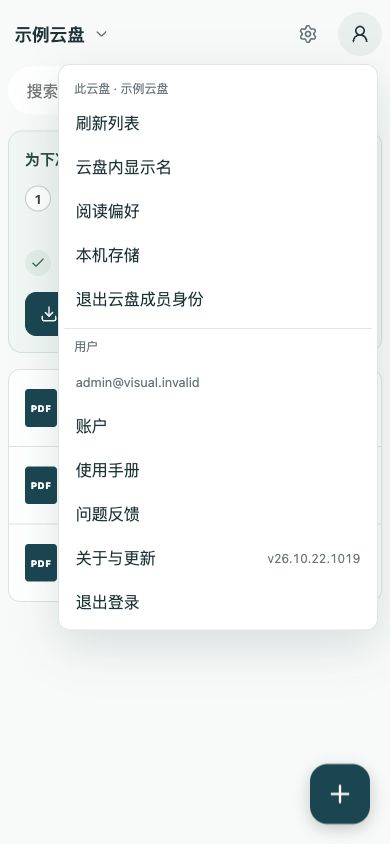
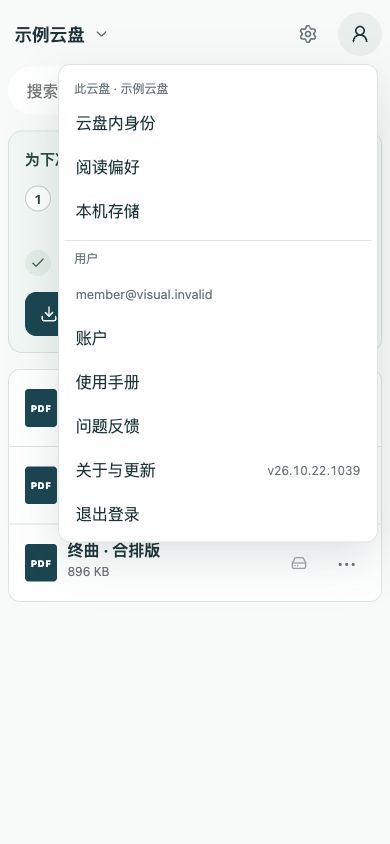
合并云盘内身份入口并移除菜单刷新

diff --git a/src/client/routes/leave-drive-page.tsx b/src/client/routes/leave-drive-page.tsx
@@ -5,27 +5,36 @@ import { SettingsFeedback } from "../settings/settings-feedback";
 import { useState } from "react";
 import { Button } from "react-aria-components";
 import { Link, useNavigate, useParams } from "react-router-dom";
-import { authClient } from "../auth/auth-client";
+import { useApplicationIdentity } from "../auth/application-identity";
+import { DriveSettingsDialog } from "../score-library/drive-settings-dialog";
 import { TaskHeader } from "../components/task-header";
 import { ConfirmDialog, type Confirmation } from "../settings/confirm-dialog";
 import { useUserLifecycle } from "../settings/use-user-lifecycle";
 
 export default function LeaveDrivePage() {
   const { choirId = "" } = useParams();
-  const session = authClient.useSession();
-  return <LeaveDrive key={`${session.data?.user.id ?? "guest"}:${choirId}`} choirId={choirId} />;
+  const identity = useApplicationIdentity();
+  const [knownSession, setKnownSession] = useState(identity.authenticatedSessionId);
+  if (identity.authenticatedSessionId && knownSession !== identity.authenticatedSessionId) setKnownSession(identity.authenticatedSessionId);
+  const presentationSession = identity.onlineState === "signed-out" ? null : identity.authenticatedSessionId ?? knownSession;
+  return <LeaveDrive key={`${identity.localUserId ?? "guest"}:${choirId}:${presentationSession}`} choirId={choirId} userId={identity.localUserId} />;
 }
-function LeaveDrive({ choirId }: { choirId: string }) {
+function LeaveDrive({ choirId, userId }: { choirId: string; userId: string | null }) {
   const navigate = useNavigate();
-  const userId = authClient.useSession().data?.user.id;
   const { state, message, busy, loading, blocked, reload, perform } = useUserLifecycle();
   const member = state?.memberships.find(member => member.choirId === choirId);
+  const [editingName, setEditingName] = useState(false);
   const [confirmation, setConfirmation] = useState<Confirmation | null>(null);
   return <div className="app-page">
-    <TaskHeader title={"退出云盘成员身份"} backTo={`/choirs/${choirId}`} />
-    <main className="page-shell settings-page settings-ux lifecycle-page">
-      <header className="settings-heading"><p>{member?.name}</p></header>
-      {state && <section className="membership-exit"><h2>成员身份</h2>
+    <TaskHeader title="云盘内身份" backTo={`/choirs/${choirId}`} />
+    <main className="page-shell settings-page settings-ux lifecycle-page drive-identity-page">
+      <header className="settings-heading"><p>{member?.name}</p><p className="settings-copy">管理你在这个云盘中的名称与成员身份。</p></header>
+      {member && <section className="membership-identity" aria-labelledby="membership-identity-heading">
+        <h2 id="membership-identity-heading">我在此云盘</h2>
+        <dl><div><dt>显示名</dt><dd>{member.displayName}</dd></div><div><dt>成员身份</dt><dd>{member.status === "removed" ? "已退出或移除" : member.isOwner === 1 ? "拥有者" : "成员"}</dd></div></dl>
+        {member.status === "active" && userId && <Button className="secondary-button" isDisabled={blocked} onPress={() => setEditingName(true)}>修改显示名</Button>}
+      </section>}
+      {state && <section className="membership-exit"><h2>退出此云盘</h2>
         {state.memberships.filter(member => member.choirId === choirId).map((member) => <article className="lifecycle-member" key={member.id}>
           <p className="settings-copy">{member.status === "removed" ? "已退出或移除" : member.isOwner === 1 ? "你是此云盘的拥有者。" : "退出会结束你与此云盘的成员关系。"}</p>
           {member.isOwner === 1 && member.status === "active" ? <><p>拥有者必须先转让拥有权，才能退出成员身份。</p><Link className="secondary-link" to={`/choirs/${member.choirId}/memberships`}>管理成员与交接</Link></> : null}
@@ -36,13 +45,14 @@ function LeaveDrive({ choirId }: { choirId: string }) {
               await rememberDriveAccessRevoked(workspace, new AbortController().signal);
             }
             await navigate("/drives");
-          }) })}>退出云盘成员身份</Button> : <p>三十天内可联系云盘拥有者恢复；个人层不向拥有者开放。</p>}
+          }) })}>退出此云盘</Button> : <p>三十天内可联系云盘拥有者恢复；个人层不向拥有者开放。</p>}
         </article>)}
       </section>}
 
       {state && !state.memberships.some(member => member.choirId === choirId) && <p>你在此云盘没有成员关系。</p>}
       <SettingsFeedback loading={loading} loadError={null} message={message} retry={() => void reload().catch(() => undefined)} />
       {message && <Button isDisabled={busy || loading} onPress={() => void reload().catch(() => undefined)}>重新读取状态</Button>}
+      {editingName && userId && <DriveSettingsDialog choirId={choirId} userId={userId} field="display-name" onClose={() => setEditingName(false)} onSaved={async () => { await reload().catch(() => undefined); }} />}
       <ConfirmDialog confirmation={confirmation} busy={busy} onClose={() => setConfirmation(null)} />
     </main>
   </div>;

diff --git a/src/client/routes/choir-page.tsx b/src/client/routes/choir-page.tsx
@@ -12,7 +12,6 @@ import { hasManagement, type Operation } from "../../shared/drive-permissions";
 import { BackButton } from "../navigation/back-button";
 import { PreparedScoreLink } from "../score-library/prepared-score-link";
 import { useNetworkStatus } from "../platform/use-network-status";
-import { DriveSettingsDialog } from "../score-library/drive-settings-dialog";
 import { rememberLastDrive, forgetLastDrive } from "../score-library/last-drive";
 import { useApplicationIdentity } from "../auth/application-identity";
 import { IdentityNotice } from "../auth/local-entry";
@@ -84,8 +83,6 @@ function ChoirLibrary({ choirId, identity, cacheOwner }: { choirId: string; iden
   const { library, snapshot } = useDriveLibrary(cacheOwner, choirId, Boolean(identity.authenticatedUserId), !identity.restoring && (Boolean(userId) || identity.onlineState !== "checking"), presentationSessionId);
   const { access, view: { search }, scores: visibleScores, refreshMessage: searchMessage, joining: busy } = snapshot;
   const [openAdmissionDisplayName, setOpenAdmissionDisplayName] = useState("");
-  const [displayName, setDisplayName] = useState<string>();
-  const [settingsField, setSettingsField] = useState<"display-name" | null>(null);
   const [message, setMessage] = useState<string | null>(null);
   const [uploadOpen, setUploadOpen] = useState(false);
   const [quotaBlocked, setQuotaBlocked] = useState(false);
@@ -152,7 +149,6 @@ function ChoirLibrary({ choirId, identity, cacheOwner }: { choirId: string; iden
   const sessionChanged = dialogSession !== presentationSessionId;
   if (sessionChanged) setDialogSession(presentationSessionId);
   if (sessionChanged || identity.onlineState === "signed-out" || (access.kind === "opened" && access.retained)) {
-    if (settingsField) setSettingsField(null);
     if (uploadOpen) setUploadOpen(false);
     if (scoreAction) setScoreAction(null);
     if (attachmentSelection) setAttachmentSelection(null);
@@ -224,7 +220,7 @@ function ChoirLibrary({ choirId, identity, cacheOwner }: { choirId: string; iden
 
   if (access.kind === "loading") {
     return (
-      <><DrivePage choirId={choirId} choirName={access.choir?.name} header={<DriveHeader loading choirId={choirId} choirName={access.choir?.name ?? "云盘"} userId={userId} localOnly={!identity.authenticatedUserId} resolvingIdentity={identity.restoring || identity.onlineState === "checking"} search={search} onSearch={updateSearch} onRefresh={() => void refresh()} />} />{attachmentDialog}</>
+      <><DrivePage choirId={choirId} choirName={access.choir?.name} header={<DriveHeader loading choirId={choirId} choirName={access.choir?.name ?? "云盘"} userId={userId} localOnly={!identity.authenticatedUserId} resolvingIdentity={identity.restoring || identity.onlineState === "checking"} search={search} onSearch={updateSearch} />} />{attachmentDialog}</>
     );
   }
 
@@ -244,7 +240,7 @@ function ChoirLibrary({ choirId, identity, cacheOwner }: { choirId: string; iden
   const storageRatio = result.storage.usedBytes / result.storage.limitBytes;
 
   return (
-    <><DrivePage choirId={choirId} header={<DriveHeader displayName={displayName} choirId={choirId} choirName={choir.name} userId={userId} email={session.data?.user.email} localOnly={Boolean(access.local) || !online} onEditDisplayName={(access.isMember || access.rememberedMembership) ? () => setSettingsField("display-name") : undefined} search={search} onSearch={updateSearch} onRefresh={() => void refresh()} view={snapshot.view} onSort={updateSort} onDirection={updateDirection} />}>
+    <><DrivePage choirId={choirId} header={<DriveHeader choirId={choirId} choirName={choir.name} userId={userId} email={session.data?.user.email} localOnly={Boolean(access.local) || !online} canManageIdentity={access.isMember || access.rememberedMembership} search={search} onSearch={updateSearch} view={snapshot.view} onSort={updateSort} onDirection={updateDirection} />}>
       <PullToRefresh key={`${cacheOwner}:${choirId}`} onRefresh={refresh} disabled={!online}>
       <main className="page-shell file-library">
         {access.retained && <p role="status">已无法访问此云盘，以下为本机保留内容</p>}
@@ -332,7 +328,6 @@ function ChoirLibrary({ choirId, identity, cacheOwner }: { choirId: string; iden
       </PullToRefresh>
 
       {exportScore && <Suspense fallback={<LibraryTaskLoading title="分享 PDF" size="tall" onClose={() => setExportScore(null)} />}><LibraryExportDialog key={`${exportScore.id}:${userId}`} score={exportScore} authenticatedUserId={userId ?? null} onClose={() => setExportScore(null)} /></Suspense>}
-      {settingsField && userId && !access.retained && <DriveSettingsDialog key={`${choirId}:${userId}:${presentationSessionId}:${settingsField}`} choirId={choirId} userId={userId!} field={settingsField} onClose={() => setSettingsField(null)} onSaved={async value => { setDisplayName(value); setMessage(null); }} />}
       {visible("uploadFiles") && <UploadFab disabled={!online || Boolean(access.local)} onPress={() => setUploadOpen(true)} />}
 
 

diff --git a/src/client/routes/leave-drive-page.test.tsx b/src/client/routes/leave-drive-page.test.tsx
@@ -8,14 +8,23 @@ vi.mock("../auth/auth-client", () => ({ authClient: { useSession: () => ({ data:
 beforeEach(async () => { await localDatabase.open(); await activateAuthenticatedLocalOwner("member"); });
 afterEach(() => vi.unstubAllGlobals());
 function setup(isOwner = 0, isPreviewEntry = 0) {
-  const fetch = vi.fn(async (_url: string, init?: RequestInit) => init?.method ? new Response(null, { status: 204 }) : Response.json({ userId: "member", reauthenticated: false, methods: [], deletion: null, memberships: [{ id: "membership", choirId: "drive", name: "排练云盘", displayName: "小林", isPreviewEntry, isOwner, status: "active", revision: 3, removedAt: null }] }));
+  let displayName = "小林", revision = 3;
+  const fetch = vi.fn(async (url: string, init?: RequestInit) => {
+    if (init?.method === "PATCH") {
+      displayName = JSON.parse(String(init.body)).displayName; revision += 1;
+      return Response.json({ revision });
+    }
+    if (init?.method) return new Response(null, { status: 204 });
+    if (url.endsWith("/settings")) return Response.json({ name: "排练云盘", displayName, membershipRevision: revision, nameRevision: 0, canEditDriveInfo: false });
+    return Response.json({ userId: "member", reauthenticated: false, methods: [], deletion: null, memberships: [{ id: "membership", choirId: "drive", name: "排练云盘", displayName, isPreviewEntry, isOwner, status: "active", revision, removedAt: null }] });
+  });
   vi.stubGlobal("fetch", fetch);
   render(<MemoryRouter initialEntries={["/choirs/drive/me"]}><Routes><Route path="/choirs/:choirId/me" element={<LeaveDrivePage />} /><Route path="/drives" element={<h1>我的云盘</h1>} /></Routes></MemoryRouter>);
   return fetch;
 }
 it("requires named membership confirmation and preserves the lifecycle revision", async () => {
   const fetch = setup();
-  fireEvent.click(await screen.findByRole("button", { name: "退出云盘成员身份" }));
+  fireEvent.click(await screen.findByRole("button", { name: "退出此云盘" }));
   expect(screen.getByRole("dialog", { name: "退出「排练云盘」的成员身份" })).toBeVisible();
   expect(screen.getByText(/云端个人层保留三十天/)).toBeVisible();
   expect(fetch.mock.calls.some(([, init]) => init?.method)).toBe(false);
@@ -26,13 +35,28 @@ it("requires named membership confirmation and preserves the lifecycle revision"
 });
 it("requires the owner to transfer ownership before leaving", async () => {
   setup(1);
-  expect(await screen.findByRole("button", { name: "退出云盘成员身份" })).toBeDisabled();
+  expect(await screen.findByRole("button", { name: "退出此云盘" })).toBeDisabled();
   expect(screen.getByRole("link", { name: "管理成员与交接" })).toBeVisible();
 });
 
 it("explains the actual preview exception without suggesting personal-layer expiry", async () => {
   setup(0, 1);
-  fireEvent.click(await screen.findByRole("button", { name: "退出云盘成员身份" }));
+  fireEvent.click(await screen.findByRole("button", { name: "退出此云盘" }));
   expect(screen.getByText(/我的笔记仍可使用，不进入三十天保留期/)).toBeVisible();
   expect(screen.queryByText(/云端个人层保留三十天/)).not.toBeInTheDocument();
+});
+
+it("edits the local display name and rereads membership revision before leaving", async () => {
+  const fetch = setup();
+  expect(await screen.findByText("小林")).toBeVisible();
+  fireEvent.click(screen.getByRole("button", { name: "修改显示名" }));
+  fireEvent.change(await screen.findByRole("textbox", { name: "我在此云盘的显示名" }), { target: { value: "林同学" } });
+  fireEvent.click(screen.getByRole("button", { name: "保存" }));
+  expect(await screen.findByText("林同学")).toBeVisible();
+  expect(screen.queryByRole("dialog")).not.toBeInTheDocument();
+  expect(fetch).toHaveBeenCalledWith("/api/choirs/drive/display-name", expect.objectContaining({ method: "PATCH", body: JSON.stringify({ displayName: "林同学", expectedRevision: 3 }) }));
+  fireEvent.click(screen.getByRole("button", { name: "退出此云盘" }));
+  fireEvent.click(screen.getByRole("button", { name: "确认退出成员身份" }));
+  await screen.findByRole("heading", { name: "我的云盘" });
+  expect(fetch).toHaveBeenCalledWith("/api/choirs/drive/memberships/membership", expect.objectContaining({ method: "POST", body: JSON.stringify({ action: "remove", expectedRevision: 4 }) }));
 });

diff --git a/src/client/routes/choir-continuity.test.tsx b/src/client/routes/choir-continuity.test.tsx
@@ -1,12 +1,11 @@
 import { fireEvent, render, screen, waitFor } from '@testing-library/react';
 import { MemoryRouter, Routes, Route } from 'react-router-dom';
 import { afterEach, beforeEach, expect, it, vi } from 'vitest';
-import ChoirPage from './choir-page';
+import LeaveDrivePage from './leave-drive-page';
 import { LocalIdentityObserver } from '../platform/local-identity-observer';
 import { activateAuthenticatedLocalOwner } from '../platform/local-workspace';
 import { observeNavigationSession } from '../settings/navigation-events';
 import { localDatabase } from '../platform/local-database';
-import { noCapabilities } from '../../shared/drive-permissions';
 const state = vi.hoisted(() => ({ pending: false, sessionId: "session", dataMissing: false, error: null as { status: number } | null }));
 vi.mock('../auth/auth-client', () => ({ authClient: { useSession: () => ({ data: state.dataMissing ? null : { user: { id: 'user', email: 'user@example.test' }, session: { id: state.sessionId } }, isPending: state.pending, isRefetching: false, error: state.error }) } }));
 beforeEach(async () => { await localDatabase.open(); observeNavigationSession(null); });
@@ -14,15 +13,12 @@ afterEach(() => { state.error = null; state.pending = false; state.sessionId = "
 it.each(['temporary', 'missing-data', 'signed-out', 'new-session'] as const)('keeps input through a temporary failure and clears it at a %s boundary', async boundary => {
   await activateAuthenticatedLocalOwner('user');
   observeNavigationSession('user:session', 'user');
-  vi.stubGlobal('fetch', vi.fn(async (input: RequestInfo | URL) => String(input).endsWith('/bootstrap')
-    ? Response.json({ choir: { id: 'drive', name: '排练云盘', guestAdmissionMode: 'invite' }, scores: [], storage: { usedBytes: 0, limitBytes: 1000000 }, permissions: { access: 'membership', capabilities: noCapabilities() } })
-    : String(input).endsWith('/settings') ? Response.json({ name: '排练云盘', nameRevision: 1, displayName: '小花', membershipRevision: 1, canEditDriveInfo: false }) : new Response(null, { status: 404 })));
-  const tree = () => <MemoryRouter initialEntries={['/choirs/drive']}><LocalIdentityObserver /><Routes><Route path="/choirs/:choirId" element={<ChoirPage />} /></Routes></MemoryRouter>;
+  vi.stubGlobal('fetch', vi.fn(async (input: RequestInfo | URL) => String(input).endsWith('/settings')
+    ? Response.json({ name: '排练云盘', nameRevision: 1, displayName: '小花', membershipRevision: 1, canEditDriveInfo: false })
+    : String(input).endsWith('/lifecycle') ? Response.json({ userId: 'user', reauthenticated: false, methods: [], deletion: null, memberships: [{ id: 'membership', choirId: 'drive', name: '排练云盘', displayName: '小花', isPreviewEntry: 0, isOwner: 0, status: 'active', revision: 1, removedAt: null }] }) : new Response(null, { status: 404 })));
+  const tree = () => <MemoryRouter initialEntries={['/choirs/drive/me']}><LocalIdentityObserver /><Routes><Route path="/choirs/:choirId/me" element={<LeaveDrivePage />} /></Routes></MemoryRouter>;
   const view = render(tree());
-  const button = await screen.findByRole('button', { name: '我的' });
-  expect(button).toHaveTextContent('');
-  fireEvent.click(button);
-  fireEvent.click(await screen.findByRole('menuitem', { name: '云盘内显示名' }));
+  fireEvent.click(await screen.findByRole('button', { name: '修改显示名' }));
   const input = await screen.findByRole('textbox', { name: '我在此云盘的显示名' });
   fireEvent.change(input, { target: { value: '尚未保存的名字' } });
   expect(input).toHaveValue('尚未保存的名字');
@@ -45,7 +41,7 @@ it.each(['temporary', 'missing-data', 'signed-out', 'new-session'] as const)('ke
     await waitFor(() => expect(screen.queryByRole('textbox', { name: '我在此云盘的显示名' })).not.toBeInTheDocument());
     state.error = null;
     view.rerender(tree());
-    await screen.findByRole('button', { name: '我的' });
+    await screen.findByRole('button', { name: '修改显示名' });
     expect(screen.queryByRole('textbox', { name: '我在此云盘的显示名' })).not.toBeInTheDocument();
   }
 });

diff --git a/src/client/score-library/drive-header.tsx b/src/client/score-library/drive-header.tsx
@@ -9,13 +9,13 @@ import { DriveSwitcher } from "./drive-switcher";
 import { LibrarySortControl } from "./library-sort-control";
 import type { LibrarySort, LibrarySortDirection, LibraryView } from "./library-view-state";
 
-export function DriveHeader({ choirId, choirName, userId, email, search, onSearch, onRefresh,
-  onEditDisplayName, displayName, localOnly = false, resolvingIdentity = false, loading = false,
+export function DriveHeader({ choirId, choirName, userId, email, search, onSearch,
+  canManageIdentity, localOnly = false, resolvingIdentity = false, loading = false,
   view = { sort: "name" }, onSort, onDirection,
 }: {
-  choirId: string; choirName: string; displayName?: string; userId?: string; email?: string | null; search: string;
-  onSearch: (value: string) => void; onRefresh: () => void;
-  loading?: boolean; resolvingIdentity?: boolean; localOnly?: boolean; onEditDisplayName?: () => void;
+  choirId: string; choirName: string; userId?: string; email?: string | null; search: string;
+  onSearch: (value: string) => void;
+  loading?: boolean; resolvingIdentity?: boolean; localOnly?: boolean; canManageIdentity?: boolean;
   view?: Pick<LibraryView, "sort" | "sortDirections">;
   onSort?: (value: LibrarySort) => void; onDirection?: (value: LibrarySortDirection) => void;
 }) {
@@ -26,9 +26,9 @@ export function DriveHeader({ choirId, choirName, userId, email, search, onSearc
       <span className="drive-settings-control"><Link className="icon-button drive-settings-entry" to={`/choirs/${choirId}/settings`} aria-label="云盘设置" aria-describedby={settingsHint} aria-disabled={loading || localOnly || undefined} onClick={event => { if (loading || localOnly) event.preventDefault(); }}>
         <Settings size={20} aria-hidden="true" />
       </Link><span id={settingsHint} role="tooltip" className="drive-settings-hint">{localOnly ? "联网并确认访问后可使用云盘设置" : "云盘设置"}</span></span>
-      {userId ? <DrivePersonalMenu key={`${userId}:${choirId}`} choirId={choirId} choirName={choirName} userId={userId} email={email} displayName={displayName} localOnly={localOnly} onEditDisplayName={onEditDisplayName} onRefresh={onRefresh} />
+      {userId ? <DrivePersonalMenu key={`${userId}:${choirId}`} choirId={choirId} choirName={choirName} userId={userId} email={email} localOnly={localOnly} canManageIdentity={canManageIdentity} />
         : resolvingIdentity || loading ? <span className="drive-avatar" aria-label="正在恢复用户"><UserRound aria-hidden="true" size={20} /></span>
-        : <GuestMenu choirId={choirId} onRefresh={onRefresh} />}
+        : <GuestMenu choirId={choirId} />}
     </div>
     <div className="drive-library-controls">
       <Form className="library-search drive-search" role="search" onSubmit={event => event.preventDefault()}>
@@ -39,11 +39,10 @@ export function DriveHeader({ choirId, choirName, userId, email, search, onSearc
   </header>;
 }
 
-function GuestMenu({ choirId, onRefresh }: { choirId: string; onRefresh(): void }) {
+function GuestMenu({ choirId }: { choirId: string }) {
   return <MenuTrigger><Button className="drive-avatar" aria-label="访客选项">访</Button>
     <Popover className="file-menu-popover account-menu-popover"><Menu aria-label="访客选项">
       <MenuItem href={loginHref(`/choirs/${choirId}`)}>登录或注册</MenuItem>
-      <MenuItem onAction={onRefresh}>刷新列表</MenuItem>
       <MenuItem href="/help">使用手册</MenuItem>
       <MenuItem href="/diagnostics">问题反馈</MenuItem>
       <MenuItem href="/about">关于与更新</MenuItem>

diff --git a/src/client/routes/help-page.tsx b/src/client/routes/help-page.tsx
@@ -47,7 +47,7 @@ const chapters: Chapter[] = [
     { title: "回收站与彻底删除", paragraphs: ["有删除与恢复权限的成员可将乐谱移入回收站，30 天内可恢复。替换 PDF 后，旧文件也进入回收站；恢复为独立乐谱，不覆盖当前 PDF，也不复制原谱的笔记或附件。回收站与待确认 PDF 仍占存储空间。", "拥有者可以提前彻底删除回收站乐谱、回收站 PDF 或整个云盘。彻底删除会终止相应内容的产品访问与恢复能力；删除乐谱或云盘时关联笔记也随之删除，不提供用户恢复。"] },
   ] },
   { id: "members", title: "创建云盘，邀请和管理成员", intro: "日常成员按需获得操作权限，拥有者负责云盘的归属与授权安排。", topics: [
-    { title: "创建与邀请", paragraphs: ["点击当前云盘名称，在面板底部选择“创建云盘”；云盘选择页也保留创建入口。免费体验云盘每人最多拥有一个，每盘支持 10 份当前乐谱、50 MB PDF 空间和 20 位成员（含拥有者），无固定体验到期时间。", "通过云盘的邀请入口分享邀请链接或邀请卡。邀请码是访问凭证，只交给需要访问的人；轮换后原邀请码失效。显示名可在不同云盘分别设置。"] },
+    { title: "创建与邀请", paragraphs: ["点击当前云盘名称，在面板底部选择“创建云盘”；云盘选择页也保留创建入口。免费体验云盘每人最多拥有一个，每盘支持 10 份当前乐谱、50 MB PDF 空间和 20 位成员（含拥有者），无固定体验到期时间。", "通过云盘的邀请入口分享邀请链接或邀请卡。邀请码是访问凭证，只交给需要访问的人；轮换后原邀请码失效。显示名可在不同云盘分别设置，在“我的 → 云盘内身份”中修改。"] },
     { title: "找到有权处理事情的人", paragraphs: ["点击云盘顶部齿轮，在“云盘设置 → 成员与权限”中按成员或按权限查看。“可以操作”的人可以处理对应事项；“可以授权”的人可以调整普通成员的相关权限。", "上传、修改、删除文件、管理成员和编辑共享层等权限分别授予。拥有者可以指定受托权限管理者；受托人只能在被授权范围内管理普通成员。拥有权也不允许读取未分享的他人个人层。"] },
     { title: "闲置云盘的保留规则", paragraphs: ["为合理利用存储资源，连续超过 30 天无成员联网访问的免费体验云盘可能被清理。清理前，我们会至少提前 14 天通过邮件通知云盘拥有者；通知期内任一成员重新联网访问云盘，即取消本次清理。", "超过 30 天不代表立即删除。通知邮件会说明保留方法；离线打开已有副本不计作联网访问，请在通知期内联网进入该云盘。"] },
   ] },

diff --git a/src/client/navigation/navigation.test.tsx b/src/client/navigation/navigation.test.tsx
@@ -114,7 +114,7 @@ it("retries the original internal destination after a failed save", async () => 
 it("closes the transient picker before navigation and keeps it closed on return", async () => {
   const { DriveHeader } = await import("../score-library/drive-header");
   const router = createMemoryRouter([{ element: <NavigationProvider><Outlet /></NavigationProvider>, children: [
-    { path: "/choirs/one", element: <DriveHeader choirId="one" choirName="排练" search="" onSearch={() => {}} onRefresh={() => {}} /> },
+    { path: "/choirs/one", element: <DriveHeader choirId="one" choirName="排练" search="" onSearch={() => {}} /> },
     { path: "/drives", element: <h1>云盘列表内容</h1> },
   ] }], { initialEntries: ["/choirs/one"] });
   render(<RouterProvider router={router} />);
@@ -165,7 +165,7 @@ it("keeps a stable personal icon and known display name while membership is bein
   function RestoringHeader() {
     const [member, setMember] = useState(false);
     useEffect(() => { confirmMembership = () => setMember(true); }, []);
-    return <DriveHeader loading={!member} choirId="one" choirName="排练" userId="reader" search="" onSearch={() => {}} onRefresh={() => {}} onEditDisplayName={member ? () => {} : undefined} />;
+    return <DriveHeader loading={!member} choirId="one" choirName="排练" userId="reader" search="" onSearch={() => {}} canManageIdentity={member} />;
   }
   const router = createMemoryRouter([{ element: <NavigationProvider><Outlet /></NavigationProvider>, children: [
     { path: "/choirs/one", element: <RestoringHeader /> },
@@ -179,7 +179,7 @@ it("keeps a stable personal icon and known display name while membership is bein
   expect(screen.getByRole("menuitem", { name: "林老师" })).toBeVisible();
   await act(async () => { confirmMembership(); finishSettings(Response.json({ ...settings, displayName: "小林" })); });
   expect(screen.getByRole("menuitem", { name: "阅读偏好" })).toBeVisible();
-  expect(screen.getByRole("menuitem", { name: "云盘内显示名" })).toBeEnabled();
+  expect(screen.getByRole("menuitem", { name: "云盘内身份" })).toBeEnabled();
   expect(screen.getByRole("button", { name: "我的", hidden: true })).toHaveTextContent("")
   expect(screen.getByRole("menuitem", { name: "小林" })).toBeVisible();
 });

diff --git a/src/client/components/personal-menu.tsx b/src/client/components/personal-menu.tsx
@@ -6,7 +6,7 @@ import { buildVersion } from "../../shared/build";
 
 export interface PersonalDriveActions {
   choirId: string; choirName: string; displayName?: string; localOnly: boolean;
-  onEditDisplayName?: () => void; onRefresh?: () => void;
+  canManageIdentity?: boolean;
 }
 
 export function PersonalMenu({ email, drive }: { email?: string | null; drive?: PersonalDriveActions }) {
@@ -16,11 +16,9 @@ export function PersonalMenu({ email, drive }: { email?: string | null; drive?: 
     <Popover className="file-menu-popover account-menu-popover"><Menu aria-label="我的">
       {drive && <MenuSection><Header>此云盘 · {drive.choirName}</Header>
         {drive.displayName && <MenuItem isDisabled>{drive.displayName}</MenuItem>}
-        {drive.onRefresh && <MenuItem onAction={drive.onRefresh}>刷新列表</MenuItem>}
-        {drive.onEditDisplayName && <MenuItem isDisabled={drive.localOnly} onAction={drive.onEditDisplayName}>云盘内显示名</MenuItem>}
+        {drive.canManageIdentity && <MenuItem href={`/choirs/${drive.choirId}/me`}>云盘内身份</MenuItem>}
         <MenuItem href={`/choirs/${drive.choirId}/preferences`}>阅读偏好</MenuItem>
         <MenuItem href={`/choirs/${drive.choirId}/storage`}>本机存储</MenuItem>
-        {drive.onEditDisplayName && <MenuItem href={`/choirs/${drive.choirId}/me`}>退出云盘成员身份</MenuItem>}
       </MenuSection>}
       <MenuSection><Header>用户</Header>
         <MenuItem isDisabled>{email || "已登录"}</MenuItem>

diff --git a/src/client/auth/offline-entry.test.tsx b/src/client/auth/offline-entry.test.tsx
@@ -178,7 +178,7 @@ it("does not recover the previous user's directory after explicit local logout c
   expect(screen.queryByText("a")).not.toBeInTheDocument();
 });
 
-it("the drive header recovers a failed session before reopening cloud-only scores", async () => {
+it("the identity notice recovers a failed session before reopening cloud-only scores", async () => {
   await saved();
   let unavailable = false;
   const fetch = vi.fn(async (input: RequestInfo | URL) => {
@@ -196,8 +196,7 @@ it("the drive header recovers a failed session before reopening cloud-only score
   await screen.findByText(/暂时无法连接/);
   expect(screen.queryByRole("link", { name: /^cloud$/ })).not.toBeInTheDocument();
   unavailable = false;
-  fireEvent.click(screen.getByRole("button", { name: "我的" }));
-  fireEvent.click(screen.getByRole("menuitem", { name: "刷新列表" }));
+  fireEvent.click(screen.getByRole("button", { name: "重试连接" }));
   expect(await screen.findByRole("link", { name: /^cloud$/ })).toBeInTheDocument();
 });
 

diff --git a/src/client/settings/settings-ux.css b/src/client/settings/settings-ux.css
@@ -210,3 +210,12 @@
 
 .about-version { font-variant-numeric: tabular-nums; letter-spacing: -.025em; overflow-wrap: anywhere; }
 .about-build pre { white-space: pre-wrap; overflow-wrap: anywhere; }
+
+.drive-identity-page { max-width: 42rem; }
+.membership-identity { margin: 1.5rem 0 2.5rem; padding: 1.5rem; border: 1px solid var(--line); border-radius: 1rem; background: var(--surface); }
+.membership-identity h2, .drive-identity-page .membership-exit h2 { font-size: 1.125rem; margin-top: 0; }
+.membership-identity dl { display: grid; gap: 1rem; margin: 1.25rem 0; }
+.membership-identity dl > div { display: grid; grid-template-columns: 6rem minmax(0, 1fr); gap: 1rem; }
+.membership-identity dt { color: var(--muted); font-size: .875rem; }
+.membership-identity dd { margin: 0; overflow-wrap: anywhere; }
+.drive-identity-page .membership-exit { padding-top: 1.5rem; border-top: 1px solid var(--line); }

diff --git a/src/client/score-library/drive-page.tsx b/src/client/score-library/drive-page.tsx
@@ -4,7 +4,7 @@ import { DriveHeader } from "./drive-header";
 // Startup, route-code loading and directory loading use the same drive layout.
 export function DrivePage({ choirId, choirName, header, children }: { choirId: string; choirName?: string; header?: ReactNode; children?: ReactNode }) {
   return <div className="app-page drive-page">
-    {header ?? <DriveHeader loading choirId={choirId} choirName={choirName ?? "云盘"} resolvingIdentity search="" onSearch={() => {}} onRefresh={() => {}} />}
+    {header ?? <DriveHeader loading choirId={choirId} choirName={choirName ?? "云盘"} resolvingIdentity search="" onSearch={() => {}} />}
     {children ?? <main className="page-shell file-library">
       <p className="route-loading" role="status">正在加载乐谱…</p>
     </main>}

diff --git a/src/client/app.test.tsx b/src/client/app.test.tsx
@@ -1232,8 +1232,10 @@ describe("AppRoutes", () => {
     fetchMock.mockImplementationOnce(() =>
       Promise.resolve(Response.json({ error: "temporary" }, { status: 503 })),
     );
-    fireEvent.click(screen.getByRole("button", { name: "访客选项" }));
-    fireEvent.click(screen.getByRole("menuitem", { name: "刷新列表" }));
+    const refreshArea = scoreLink.closest(".pull-refresh-area")!;
+    fireEvent.touchStart(refreshArea, { touches: [{ clientX: 50, clientY: 20 }] });
+    fireEvent.touchMove(refreshArea, { touches: [{ clientX: 50, clientY: 160 }] });
+    fireEvent.touchEnd(refreshArea, { touches: [] });
     expect(
       await screen.findByText("暂时无法更新乐谱列表，当前内容已保留。请稍后重试。"),
     ).toBeInTheDocument();
